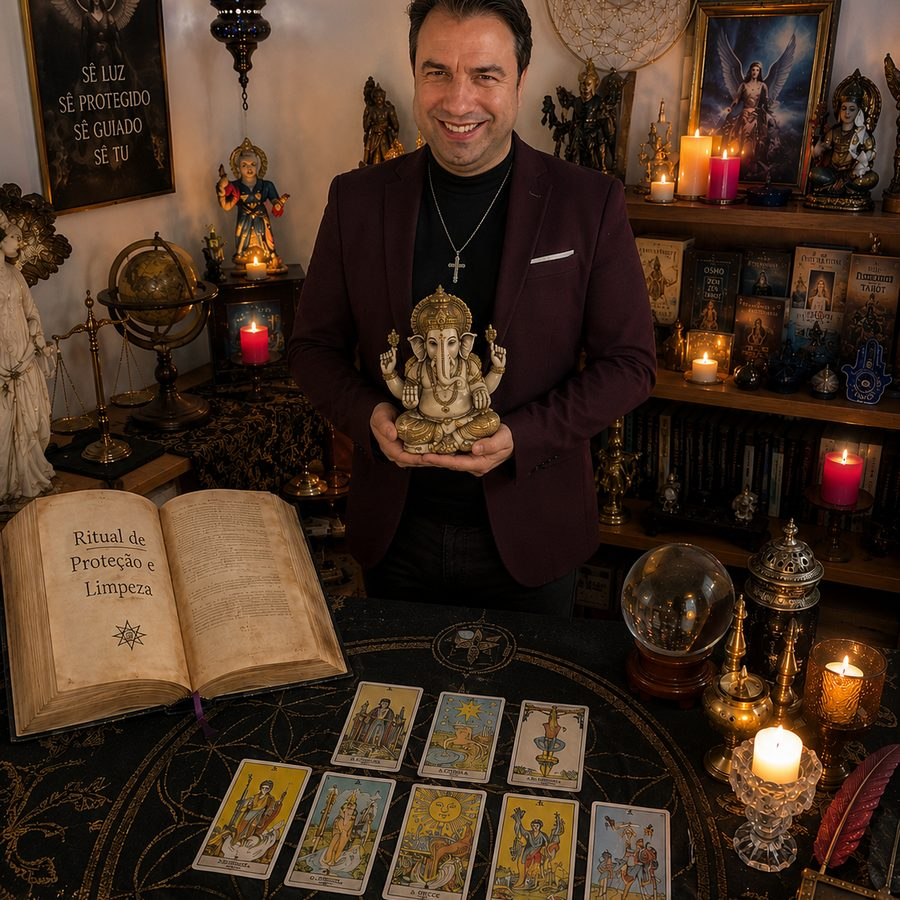
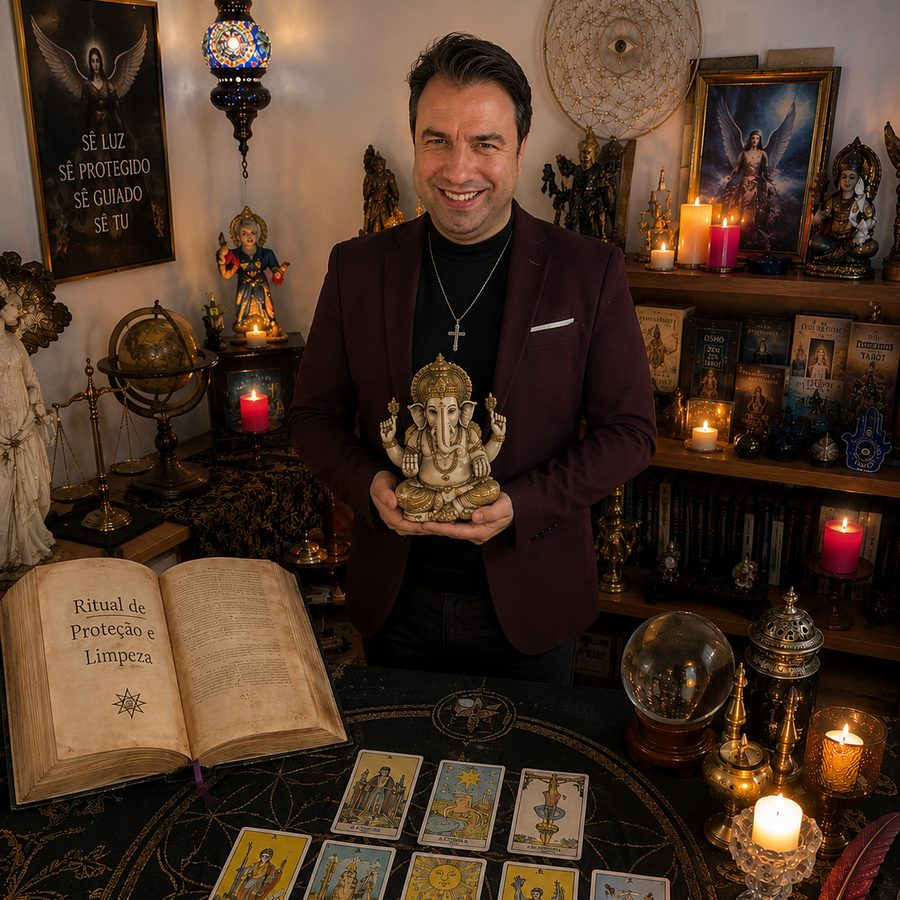
Add files via upload

diff --git a/loja.html b/loja.html
@@ -251,7 +251,7 @@ document.getElementById("ano").textContent = new Date().getFullYear();
 /* ===== Montar a loja a partir de produtos.js ===== */
 /* Sempre que trocar fotos com o MESMO nome, suba este número (2 → 3 → 4...)
    para os telemóveis deixarem de mostrar a foto antiga guardada em memória. */
-const VERSAO_FOTOS = "5";
+const VERSAO_FOTOS = "6";
 const ICONES_CAT = { "Consultas": "🔮", "Rituais": "🕯", "Emergências": "🚨", "Amuletos": "🧿", "Mapas Astrais": "🌌", "Cursos": "📚" };
 const FRASES_CAT = {
   "Consultas": "orientação dedicada, olhos nos olhos com o destino",
